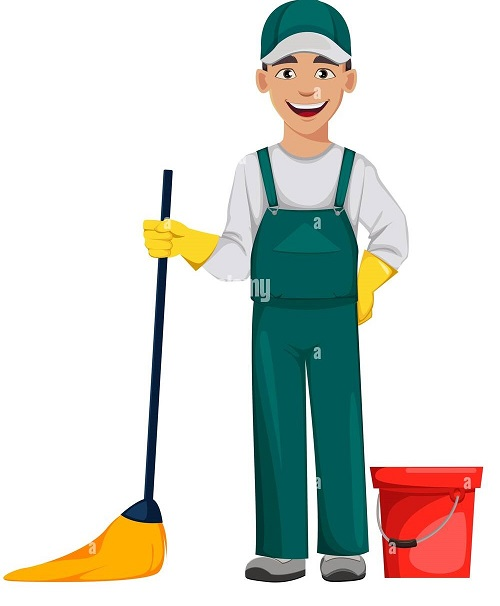
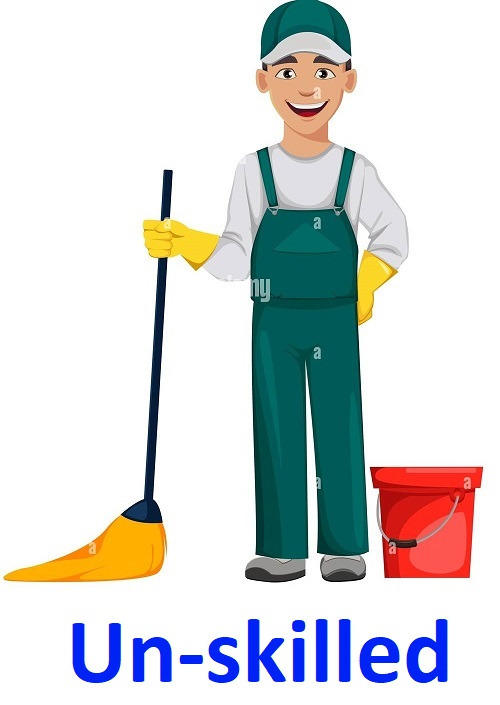
Add files via upload

diff --git a/index.html b/index.html
@@ -36,24 +36,17 @@
     </section>
     <section id="services">
         <div id="button_layout">
-            <div><img src="Clg.jpg" onclick="" class="img_btn"><br><h5>Experience the difference that Man Power Supply can make in your car manufacturing operations. Contact us today to discuss your staffing requirements and how we can assist you in driving productivity, efficiency, and success in your industry.</h5></div>
-            <br>
-            <div><img src="Clg.jpg" onclick="" class="img_btn"><br><h5>Experience the difference that Man Power Supply can make in your car manufacturing operations. Contact us today to discuss your staffing requirements and how we can assist you in driving productivity, efficiency, and success in your industry.</h5></div>
-            <br>
-            <div><img src="Clg.jpg" onclick="" class="img_btn"><br><h5>Experience the difference that Man Power Supply can make in your car manufacturing operations. Contact us today to discuss your staffing requirements and how we can assist you in driving productivity, efficiency, and success in your industry.</h5></div>
-            <br>
-            <div><img src="Clg.jpg" onclick="" class="img_btn"><br><h5>Experience the difference that Man Power Supply can make in your car manufacturing operations. Contact us today to discuss your staffing requirements and how we can assist you in driving productivity, efficiency, and success in your industry.</h5></div>
-            <br>
-            <div><img src="Clg.jpg" onclick="" class="img_btn"><br><h5>Experience the difference that Man Power Supply can make in your car manufacturing operations. Contact us today to discuss your staffing requirements and how we can assist you in driving productivity, efficiency, and success in your industry.</h5></div>
-            <br>
-            <div><img src="Clg.jpg" onclick="" class="img_btn"><br><h5>Experience the difference that Man Power Supply can make in your car manufacturing operations. Contact us today to discuss your staffing requirements and how we can assist you in driving productivity, efficiency, and success in your industry.</h5></div>
+            <img src="Clg.jpg" class="image"><button class="buttonspacing">asasasasassa</button><img src="R.png" class="image"><button class="buttonspacing">asasasasassa</button><img src="Federal-Skilled-Worker-Program-vs-Federal-Trade-Worker-Program_-What’s-the-difference.jpg" class="image">
+            <button style="font-size: 50px; color: blue;">Sofar we supplied 5000+ Un-skilled, 2500+ Semi-skilled and 1000+Skilled persons to different companies.</button>
         </div>
     </section>
 
     <section id="contact">
-        <h2>Contact Us: <br>gorantla sri sathya sai district</h2><br>
+        <h2 style="font-size: 50px; color: white; text-decoration: underline;">Contact Us:</h2>
+        <h2>GANISAKA Agencies<br>#7-174, Hindupur Kadiri Road, <br>Mandala Complex arch, <br>RDT Field office backside,<br> Gorantla village, <br> Sri Sathyasai District, Andhra Pradesh. Pin - 515231</h2><br>
         <h2>email: xyz@gmail.com</h2><br>
         <h2>phone: 1234567890</h2>
+        <iframe src="https://www.google.com/maps/embed?pb=!1m19!1m8!1m3!1d696.1667808535186!2d77.75572995782623!3d13.981970022176798!3m2!1i1024!2i768!4f13.1!4m8!3e6!4m0!4m5!1s0x3bb1780f7a1f6b63%3A0x8f18a7deff942730!2sKadiri%20Hindupur%20Rd%2C%20Palagalapalli%2C%20Gorantla%2C%20Andhra%20Pradesh%20515231!3m2!1d13.9821317!2d77.75653369999999!5e1!3m2!1sen!2sin!4v1689501464861!5m2!1sen!2sin" width="100%" height="500" style="border:0;" allowfullscreen="" loading="lazy" referrerpolicy="no-referrer-when-downgrade"></iframe>
     </section>
     </center>
 </body>

diff --git a/style.css b/style.css
@@ -46,3 +46,14 @@
     width: 1500px;
     height: fit-content;
 }
+
+.buttonspacing{
+color: white;
+background-color: white;
+border-color: white
+}
+
+.image{
+    width: 400px;
+    height: 300px;
+}
